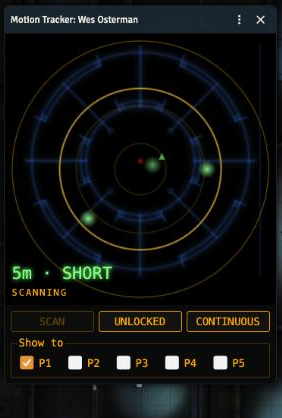
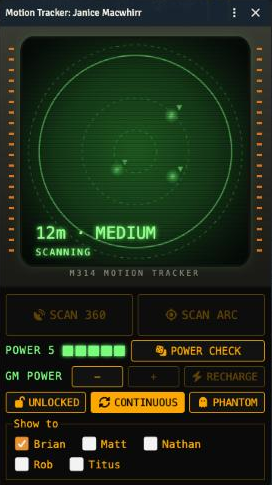
Retake screenshots for the new interface; add arc scan image

diff --git a/README.md b/README.md
@@ -5,12 +5,12 @@ A motion tracker for the **Alien RPG** on [Foundry VTT](https://foundryvtt.com) 
 The GM's client works out what is moving, including hidden tokens, and sends the players only a range, a bearing and a band. Players never receive token names, positions or ids, so nothing leaks.
 
 <p>
-  <img src="docs/images/player-view.png" alt="Player view: three blips, one marked with an up arrow for a different floor" width="282">
+  <img src="docs/images/player-view.png" alt="The scanner screen mid-scan: three blips, each marked with a down arrow for a lower floor" width="282">
   &nbsp;
-  <img src="docs/images/gm-view.png" alt="GM view: the same screen plus lock, continuous and Show to controls" width="282">
+  <img src="docs/images/gm-view.png" alt="The GM window: screen, battery and Power check, lock, continuous, phantom and Show to controls" width="282">
 </p>
 
-*Left: what a player sees mid-scan. Right: the GM's version of the window, with lock, continuous and "Show to" controls. The ▲ marks a contact on a higher floor.*
+*Left: the scanner screen mid-scan (Movie CRT look). Right: the GM's window with battery, Power check, lock, continuous, phantom and "Show to" controls. The ▼ marks a contact on a lower floor.*
 
 ## What it does
 

diff --git a/docs/GM-GUIDE.md b/docs/GM-GUIDE.md
@@ -50,6 +50,8 @@ Turn on **Allow directional scans**. The SCAN button splits in two:
 - **SCAN 360**: all around, normal range.
 - **SCAN ARC**: only the cone the token is facing (width and extra range are settings), and the cone is drawn on the screen.
 
+![An arc scan on the screen](images/arc-scan.png)
+
 Rotate the token on the map to aim it. Tokens facing south have rotation 0.
 
 ## 6. Phantom contacts
